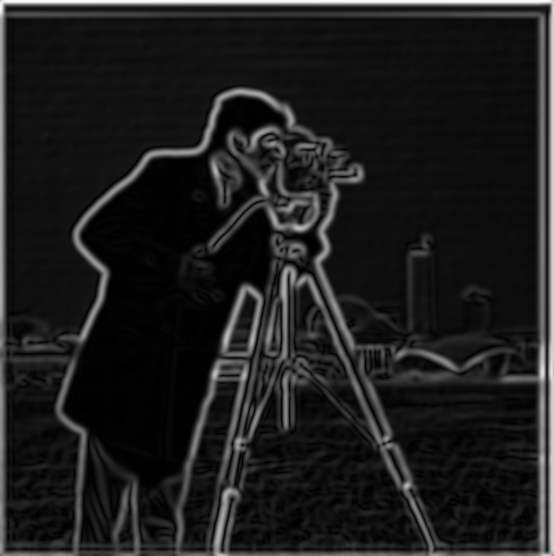
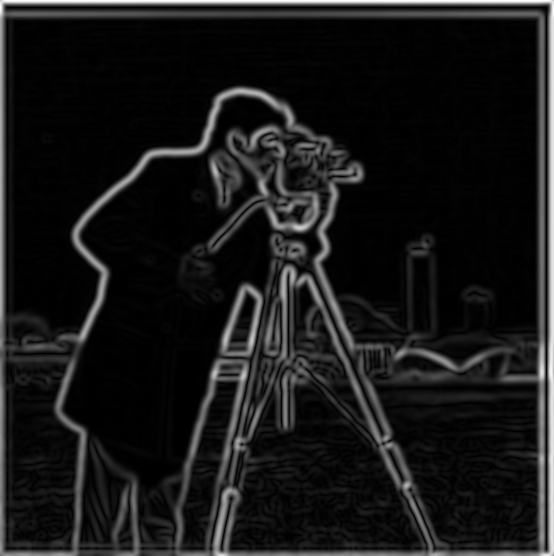
Project 2

diff --git a/cs180/fa25/proj2/index.html b/cs180/fa25/proj2/index.html
@@ -120,14 +120,97 @@
     <body onload="onload();">
         <h1>Fun with Filters and Frequencies</h1>
         <h2>Part I - Fun with Filters</h2>
+        <h3>Convolutions from Scratch</h3>
+        <p>
+            I first implemented the convolution operation from scratch just using numpy, with a box filter
+            of size 9x9. I implemented two versions of the convolution function: one with four nested loops
+            and one with two nested loops. The four-loop version iterates over each pixel in the output image
+            and then iterates over each element in the kernel to compute the convolution sum. The two-loop version
+            iterates over each pixel in the output image and then uses numpy's element-wise multiplication and
+            sum functions to compute the convolution sum. I compared the results of my implementations with 
+            SciPy's built-in <code>convolve2d</code> function to verify the correctness of my implementations.
+            For all convolved results, the images look more blurred than the original image since the box filter
+            averages the pixel values in the neighborhood of each pixel, as shown below.
+        </p>
+        <div class="image-container">
+            <div class="images">
+                <div class="image">
+                    <img src="images/original_image_gray.png" alt="Original Photo" height="220">
+                    <p class="label">Original Photo</p>
+                </div>
+                <div class="image">
+                    <img src="images/convolved_four_loops.png" alt="Convolved 4-loop" height="220">
+                    <p class="label">Convolved with 4 loop</p>
+                </div>
+                <div class="image">
+                    <img src="images/convolved_two_loops.png" alt="Convolved 2-loop" height="220">
+                    <p class="label">Convolved with 2 loop</p>
+                </div>
+                <div class="image">
+                    <img src="images/convolved_scipy.png" alt="Convolved SciPy" height="220">
+                    <p class="label">Convolved with SciPy</p>
+                </div>
+            </div>
+            <span class="description">
+                <i>
+                The convolved images look more blurry than the original image.
+                </i>
+            </span>
+        </div>
+        <p>
+            Here is the code for both convolution implementations:
+        </p>
+        <pre>
+            <code>
+def conv2d_four_loops(image, kernel):
+    image_height, image_width = image.shape
+    kernel_height, kernel_width = kernel.shape
+    pad_height = kernel_height // 2
+    pad_width = kernel_width // 2
+    
+    padded_image = np.pad(image, ((pad_height, pad_height), (pad_width, pad_width)), mode="constant", constant_values=0)
+    convolved_image = np.zeros_like(image)
+    
+    for y in range(image_height):
+        for x in range(image_width):
+            for i in range(kernel_height):
+                for j in range(kernel_width):
+                    convolved_image[y, x] += padded_image[y + i, x + j] * kernel[i, j]
+
+    return convolved_image
+
+def conv2d_two_loops(image, kernel):
+    image_height, image_width = image.shape
+    kernel_height, kernel_width = kernel.shape
+    pad_height = kernel_height // 2
+    pad_width = kernel_width // 2
+    
+    padded_image = np.pad(image, ((pad_height, pad_height), (pad_width, pad_width)), mode="constant", constant_values=0)
+    convolved_image = np.zeros_like(image)
+    
+    for y in range(image_height):
+        for x in range(image_width):
+            region = padded_image[y:y + kernel_height, x:x + kernel_width]
+            convolved_image[y, x] = np.sum(region * kernel)
+
+    return convolved_image
+
+image = load_image_grayscale("Me.jpg")
+box_filter = np.ones((9, 9)) / 81
+
+convolved_four_loops = conv2d_four_loops(image, box_filter)
+convolved_two_loops = conv2d_two_loops(image, box_filter)
+convolved_scipy = convolve2d(image, box_filter, mode="same", boundary="fill", fillvalue=0)
+            </code>
+        </pre>
         <h3>Finite Difference Operator</h3>
         <p>
             In this part, I explore how convolution kernel filters can be used to detect edges in an image.
             Knowing that an image is represented as a 2D array, it could be said that edges of an image are
             areas where the intensity of the pixels change rapidly. To detect these edges, we can use a filter
             that is sensitive to changes in intensity. One of the most simple filters that achieves this is the
-            filter \( \mathbf{D_x} = \left[ 1 \,\, -1 \right]\). This filter, when convolved with an image, will
-            highlight the vertical edges in the image. Similarly, the filter \( \mathbf{D_y} = \left[ 1 \,\, -1 \right]^T \)
+            filter \( \mathbf{D_x} = \left[ 1 \,\,\,0\,\, -1 \right]\). This filter, when convolved with an image, will
+            highlight the vertical edges in the image. Similarly, the filter \( \mathbf{D_y} = \left[ 1 \,\,\,0\,\, -1 \right]^T \)
             will highlight the horizontal edges in the image. Then, the gradient magnitude is computed by the following
             formula.
         </p>
@@ -315,6 +398,47 @@
             <span class="description"><i>Sharpened image of a chalkboard. Higher \(\alpha\) values make faint chalk marks more prominent.</i></span>
         </div>
 
+        <p>
+            I also used my sharpening implementation to sharpen a blurry image of a pizza. 
+        </p>
+        <div class="image-container">
+            <div class="images">
+                <div class="image">
+                    <img src="images/blurry_pizza.jpg" alt="Blurry Pizza" height="400">
+                    <p class="label">Blurry Pizza (Original)</p>
+                </div>
+                <div class="image">
+                    <img src="images/blurry_pizza_1.5.jpg" alt="Sharpened Pizza" height="400">
+                    <p class="label">Sharpened Pizza (\(\alpha = 1.5\))</p>
+                </div>
+            </div>
+            <span class="description"><i>Sharpened image of a blurry pizza. The sharpening process helps to recover some details in the image.</i></span>
+        </div>
+
+        <p>
+            Finally, I took a photo, blurred it, and re-sharpened the blurred image to see how well the
+            sharpening process can recover the original image. As shown below, the sharpening
+            process is able to make the edges more prominent, but it is not able to fully recover
+            the original image. This is because the blurring process removes some high-frequency
+            information from the image, and the sharpening process can only enhance the high-frequency
+            information that is still present after blurring.
+        </p>
+        <div class="image-container">
+            <div class="images">
+                <div class="image">
+                    <img src="images/street.jpg" alt="Street (Original)" height="300">
+                    <p class="label">Street (Original)</p>
+                </div>
+                <div class="image">
+                    <img src="images/street_low.jpg" alt="Blurry Street" height="300">
+                    <p class="label">Blurry Street</p>
+                </div>
+                <div class="image">
+                    <img src="images/street_low_2.jpg" alt="Sharpened Blurry Street" height="300">
+                    <p class="label">Sharpened Blurry Street (\(\alpha = 2.0\))</p>
+                </div>
+            </div>
+        </div>
         <h3>Hybrid Images</h3>
         <p>
             Hybrid images are images that look like one image up close and another image from a distance. This
@@ -326,8 +450,6 @@
             the low-pass image dominates the color, it adds more vibrancy to the image when it is viewed afar. However,
             in cases like Derek and Nutmeg hybrid image, Derek dominating the color can make Nutmeg less noticeable.
             The results of the hybrid images are shown below.
-            
-            
         </p>
         <div class="image-container">
             <div class="images">

diff --git a/index.html b/index.html
@@ -12,7 +12,7 @@
 <body>
     <h1>Welcome to My Portfolio!</h1>
     <h3>CS 180</h3>
-    <a href="./cs180/proj0/">Project 0</a>
+    <a href="./cs180/fa25/proj0/">Project 0</a>
     <a href="./cs180/fa25/proj1/">Project 1</a>
     <a href="./cs180/fa25/proj2/">Project 2</a>
     <!--
